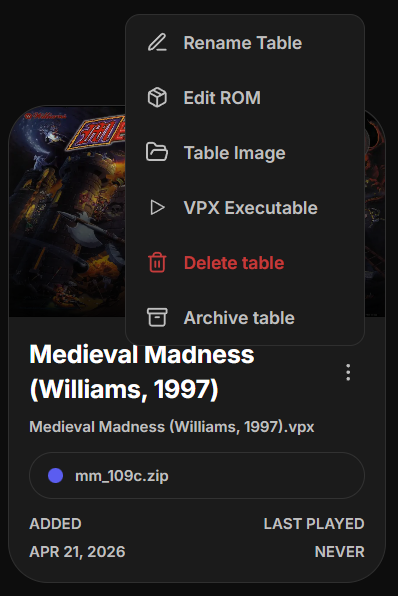
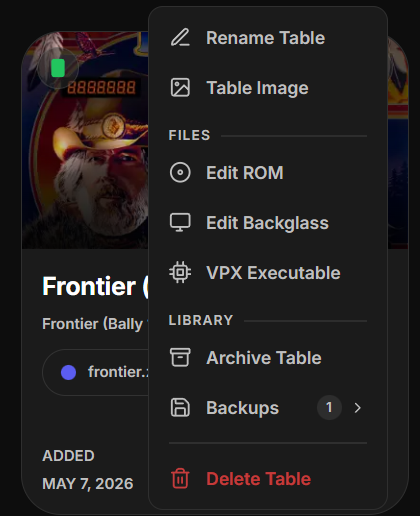
update readme

diff --git a/README.md b/README.md
@@ -13,20 +13,23 @@ A desktop application for managing and launching Visual Pinball X tables and ROM
 - [First-time setup - macOS](#first-time-setup---macos)
 - [Add tables to your library](#add-tables-to-your-library)
 - [Work with tables](#work-with-tables)
+- [Config Backups](#config-backups)
 - [Settings reference](#settings-reference)
 - [Minimal run notes (dev)](#minimal-run-notes-dev)
 
 ## What you can do
 
-- Import `.vpx` tables and `.zip` ROM files
-- Scan your VPX folder and auto-detect tables/ROMs
+- Import `.vpx` tables, `.zip` ROMs, `.directb2s` backglasses, and matching `.ini` settings
+- Scan your VPX folder and auto-detect tables, ROMs, and backglasses
 - Search, sort, and favorite tables
 - Auto-detect table image with manual overrides
+- Assign and manage table backglass files
+- Save, swap, and manage table `.ini` configuration backups
 - Play a random table from your selected library
 - Launch tables from the app
 - Rename, delete, or archive entries
 - View recently played tables
-- Export tables (all, favorites, or archived)
+- Export tables (all, favorites, or archived) with available active settings, ROMs, and backglasses
 - Connect Android mobile devices to sync selected tables and ROMs (experimental)
 
 ## Tech Stack
@@ -150,6 +153,8 @@ If you already have an existing VPX setup, start with Scan Library first.
 4. Optionally enable **Delete original files after import**.
 5. Click **Import Tables**.
 
+To import table settings, include an `.ini` with the same filename as its `.vpx` file, for example `MyTable.vpx` and `MyTable.ini`. Existing destination INIs are preserved rather than overwritten.
+
 **DirectB2S on macOS:** Playback compatibility hasn't been verified by this
 project. You can import, assign, scan, and export backglass files, but playback
 may require additional setup outside this app.
@@ -211,7 +216,9 @@ Use **Backups** in a table's actions menu to save and manage configurations (`.i
 - **Load** a backup if no active configuration exists.
 - **Rename** or **Delete** configurations from the management window.
 
-Backups are stored separately in app-managed storage.
+![Config Backups Modal](public/readme/config-backups.png)
+
+Backups are stored separately in app-managed storage. Importing a matching `.ini` sets the table's active configuration; **Backups** lets you save and manage named copies of configurations independently.
 
 ## Settings reference
 
@@ -227,15 +234,28 @@ Backups are stored separately in app-managed storage.
 
 ![Data Management settings](public/readme/settings-data-management.png)
 
-- **Scan VPX Library** — detect and auto-match tables and ROMs
-- **Export Tables** — create a shareable bundle with options:
-  - Export all tables
-  - Export favorites only
-  - Export archived tables only
+- **Scan VPX Library** — detect and auto-match tables, ROMs, and backglasses
+- **Export Tables** — create a shareable bundle. Each table gets its own folder containing the VPX file and, when available, its active `.ini`, ROM, and DirectB2S backglass. Stored configuration backups are managed separately and are not included. Choose which tables to export:
+  - All tables (excluding archived)
+  - Favorites (excluding archived)
+  - All tables (including archived)
+  - Archived tables only
 
 ![Export tables modal](public/readme/export-tables-modal.png)
 
 ![Export result](public/readme/export-result.png)
+
+### Advanced
+
+![Advanced settings](public/readme/settings-advanced.png)
+
+On Windows, expand **VPX launch flags** to configure the global launch defaults. Change these only if VPX fails to start or behaves unexpectedly:
+
+- **Limit CPU threads** passes `-LessCPUthreads` to VPX.
+- **Legacy pause menu** passes `-ExtMinimized` and is enabled by default. It is required for VPX 10.8.0 and earlier; turn it off for VPX 10.8.1 and newer, where it causes a launch error. The newer version's pause menu opens with **F12** by default.
+- Use **Reset to defaults** to restore the built-in settings.
+
+To override either flag for one table, open its **Kebab menu → VPX Executable → Launch flags (advanced)**. Choose **Use default**, **On**, or **Off** for each flag. macOS launches do not use these Windows command-line flags.
 
 ### Android (Experimental)
 
@@ -289,16 +309,6 @@ On your Android device:
 The library migration saves backups of library data, app configuration, and
 migration history in the active app-data directory's `backups` folder before
 converting the library.
-
-### Advanced launch settings (Windows)
-
-In **Settings → Advanced → VPX launch flags**, configure the global defaults:
-
-- **Limit CPU threads** passes `-LessCPUthreads` to VPX.
-- **Legacy pause menu** passes `-ExtMinimized` and is enabled by default. It is required for VPX 10.8.0 and earlier; turn it off for VPX 10.8.1 and newer, where it causes a launch error. The newer version's pause menu opens with **F12** by default.
-- Use **Reset to defaults** to restore the built-in settings.
-
-To override either flag for one table, open its **Kebab menu → VPX Executable → Launch flags (advanced)**. Choose **Use default**, **On**, or **Off** for each flag. macOS launches do not use these Windows command-line flags.
 
 ### VPX utilities
 
